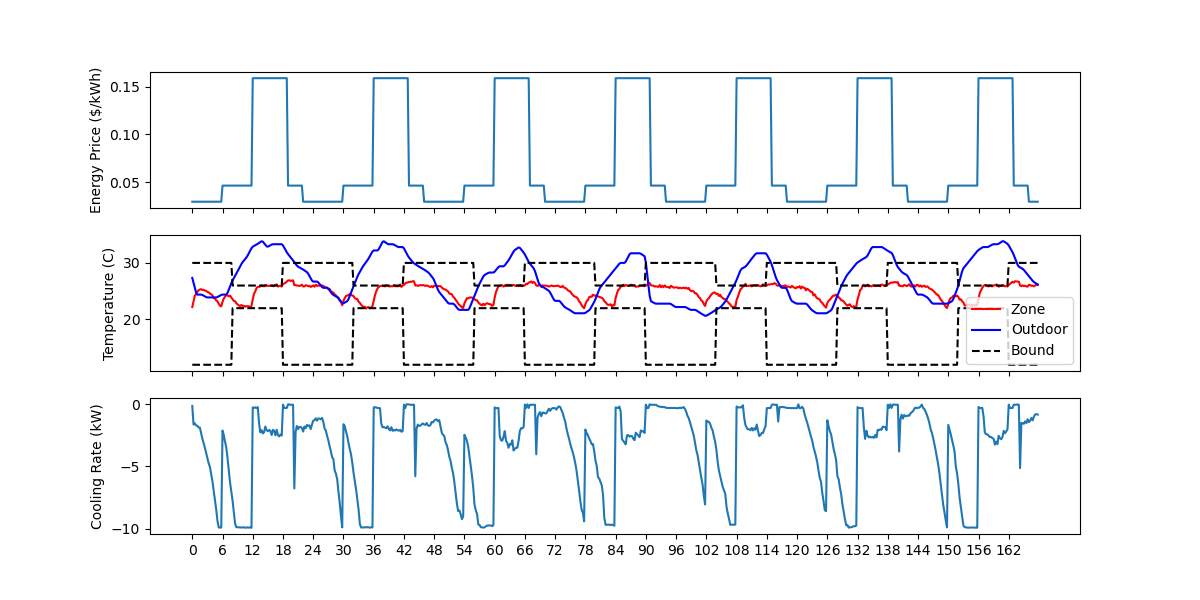
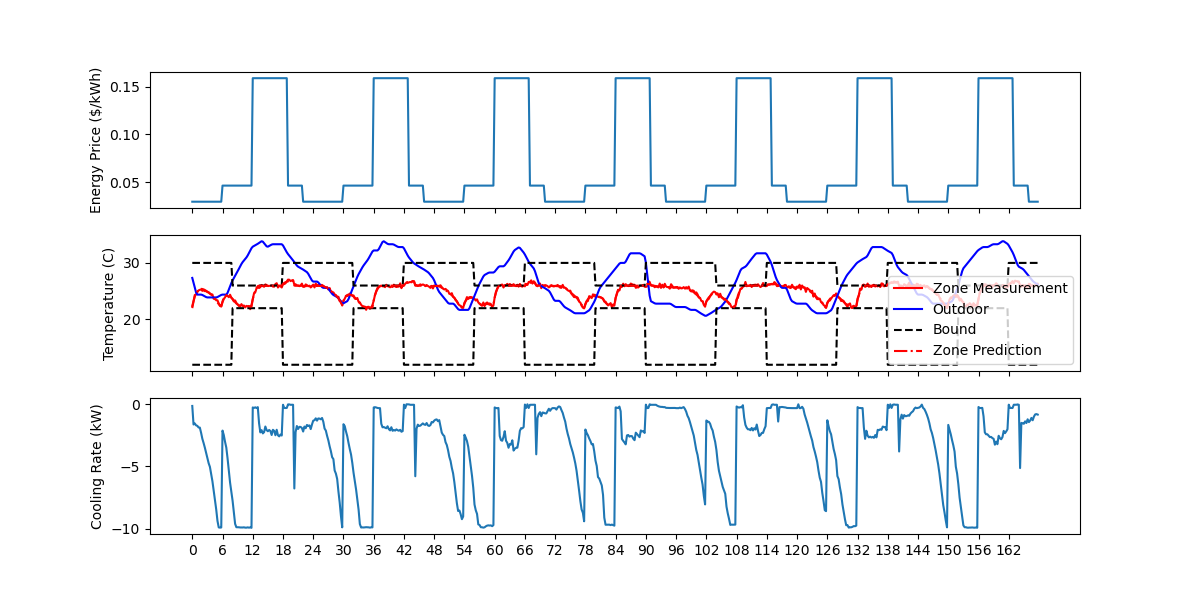
added noises

diff --git a/resources/tutorials/jax/optimal_control_mpc_jit.py b/resources/tutorials/jax/optimal_control_mpc_jit.py
@@ -345,7 +345,7 @@ if __name__ == '__main__':
     
     # initialize random seeds for noises in measurements
     keys = random.split(key, int((te-ts)/dt))
-    mu_noise = 0.1
+    mu_noise = 0.2
 
     # initialize output 
     u_opt  = []
@@ -420,10 +420,11 @@ if __name__ == '__main__':
     plt.ylabel("Energy Price ($/kWh)")
 
     plt.subplot(3,1,2)
-    plt.plot(Tz_opt, 'r-', label="Zone")
+    plt.plot(Tz_opt, 'r-', label="Zone Measurement")
     plt.plot(To_opt, 'b-', label="Outdoor")
     plt.plot(T_ub_dt, 'k--', label="Bound")
     plt.plot(T_lb_dt, 'k--')
+    plt.plot(Tz_opt_pred, 'r-.', label="Zone Prediction")
     plt.ylabel("Temperature (C)")
     plt.xticks(xticks, [])
     plt.legend()
